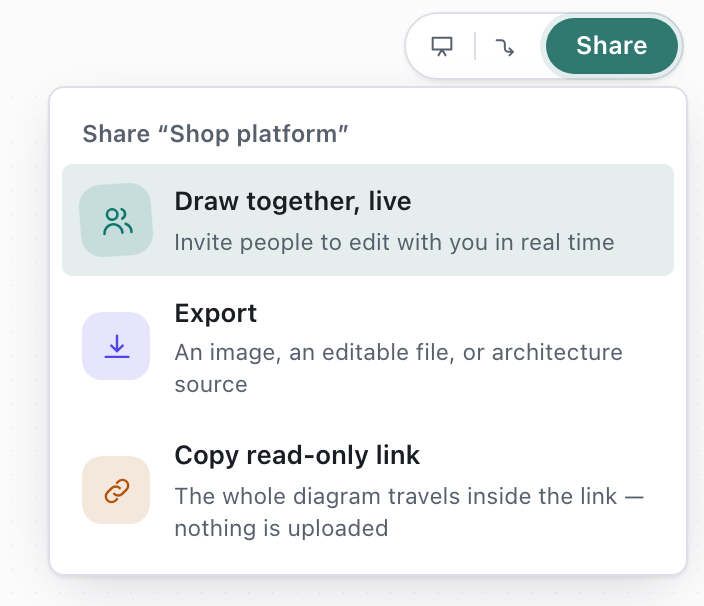
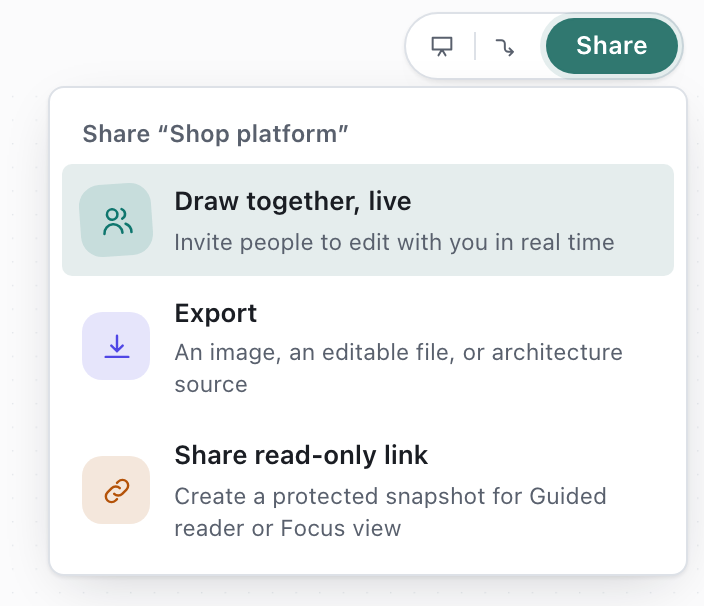
Integrate protected sharing with current toolbar and live sessions

Changed region(s): [[0.25, 0.802, 0.9062, 0.8317], [0.25, 0.7129, 0.625, 0.7723], [0.25, 0.8614, 0.5625, 0.8911]]

diff --git a/src/ui/Editor/toolbar/ShareButton.tsx b/src/ui/Editor/toolbar/ShareButton.tsx
@@ -1,9 +1,7 @@
 import { useCallback, useRef, useState } from 'react';
 import { useShallow } from 'zustand/react/shallow';
-import { hostKind } from '../../../host/hostInfo';
-import { copyShareLink } from '../../../share';
 import { useCollabStore } from '../../../store/collabStore';
-import { fileWithLiveViewport, useEditorStore } from '../../../store/editorStore';
+import { useEditorStore } from '../../../store/editorStore';
 import { useUiStore } from '../../../store/uiStore';
 import { Button } from '../../common/Button';
 import { Tooltip } from '../../common/Tooltip';
@@ -56,18 +54,13 @@ export function ShareButton({ onExport }: { onExport: () => void }) {
       detail: 'An image, an editable file, or architecture source',
       onSelect: choose(onExport),
     },
-    // The web app only: the desktop app's address is its own window, not a page anyone else can open.
-    ...(hostKind()
-      ? []
-      : [
-          {
-            id: 'link',
-            icon: 'link' as const,
-            label: 'Copy read-only link',
-            detail: 'The whole diagram travels inside the link — nothing is uploaded',
-            onSelect: choose(() => void copyShareLink(fileWithLiveViewport(useEditorStore.getState()), useUiStore.getState().notify)),
-          },
-        ]),
+    {
+      id: 'link',
+      icon: 'link' as const,
+      label: 'Share read-only link',
+      detail: 'Create a protected snapshot for Guided reader or Focus view',
+      onSelect: choose(() => useUiStore.getState().requestShareFromHere()),
+    },
   ];
 
   return (

diff --git a/e2e/share-link.spec.ts b/e2e/share-link.spec.ts
@@ -58,7 +58,8 @@ test('a diagram without Flows opens in Focus view with the actual fixed shapes',
   await create(page, 'Data Store', { x: 600, y: 300 });
   await expect(page.locator('.dc-node')).toHaveCount(2);
   const originalShape = await page.locator('.dc-node[data-type="database"] .dc-node-surface').innerHTML();
-  await runCommand(page, 'Copy share link');
+  await page.getByRole('button', { name: 'Share', exact: true }).click();
+  await page.getByRole('menuitem', { name: /^Share read-only link/ }).click();
   const dialog = page.getByRole('dialog', { name: 'Export & share' });
   await expect(dialog.getByRole('checkbox', { name: /Require a passphrase/ })).toBeChecked();
   await dialog.getByRole('checkbox', { name: /Require a passphrase/ }).uncheck();

diff --git a/e2e/desktop/desktop.spec.ts b/e2e/desktop/desktop.spec.ts
@@ -85,7 +85,8 @@ test('desktop sharing creates a protected public editor link and supports manual
   await page.goto('/');
   await page.getByRole('button', { name: 'New Quick Draft' }).click();
   await drawService(page);
-  await page.getByRole('button', { name: 'Export', exact: true }).click();
+  await page.getByRole('button', { name: 'Share', exact: true }).click();
+  await page.getByRole('menuitem', { name: /^Share read-only link/ }).click();
   const dialog = page.getByRole('dialog', { name: 'Export & share' });
   await dialog.getByText('Share', { exact: true }).click();
   await expect(dialog.getByRole('checkbox', { name: /Require a passphrase/ })).toBeChecked();

diff --git a/src/ui/Editor/EditorScreen.tsx b/src/ui/Editor/EditorScreen.tsx
@@ -964,7 +964,8 @@ export function useKeyboard({
 
   useEffect(() => {
     const onKeyDown = (event: KeyboardEvent) => {
-      if (isEditableTarget(event.target) || useUiStore.getState().flowTrace || useUiStore.getState().readOnly) return;
+      const readOnly = useUiStore.getState().readOnly;
+      if (isEditableTarget(event.target) || useUiStore.getState().flowTrace || (readOnly && !readOnly.collaborative)) return;
 
       // While the command palette is up it owns the keyboard outright — even if focus has
       // somehow left its input, a stray "t" must never spawn a Text node behind it.

diff --git a/src/canvas/Canvas.tsx b/src/canvas/Canvas.tsx
@@ -622,7 +622,7 @@ const CanvasBody = memo(function CanvasBody({ onCreateAt, onQuickConnectMenu, on
   }, [path, openFitDocumentId, document, openFitWidth, openFitHeight, setViewport]);
 
   const tracing = useUiStore((state) => state.flowTrace !== null);
-  const sharedReadOnly = useUiStore((state) => state.readOnly !== null);
+  const sharedReadOnly = useUiStore((state) => state.readOnly !== null && !state.readOnly.collaborative);
   const interactive = mode === 'edit' && !tracing && !sharedReadOnly;
   useContinuation(interactive);
 

diff --git a/docs/guides/saving-and-sharing.md b/docs/guides/saving-and-sharing.md
@@ -71,14 +71,14 @@ See the [Mermaid import reference](../reference/mermaid-import.md).
 
 | Send | How | Recipient gets |
 | --- | --- | --- |
-| Link | **Copy share link** in `⌘K` or **Share → Export → Share** | A protected, view-only snapshot in Guided reader or Focus view |
+| Link | **Share → Share read-only link**, or **Copy share link** in `⌘K` | A protected, view-only snapshot in Guided reader or Focus view |
 | File | **Document → Editable** or **Encrypted** | A diagram they can reopen |
 | Picture | **Image**, or **Copy as image** | A PNG or SVG; editing requires an embedded diagram |
 | Live session | **Share → Draw together, live** | A shared canvas; see [Collaborating live](collaborating.md) |
 
 ### Create a protected link
 
-1. Open **Share → Export → Share**. **Require a passphrase** is on by default.
+1. Choose **Share → Share read-only link**. **Require a passphrase** is on by default.
 2. Choose **Start at**: the diagram overview, current level or a playable Flow.
 3. Enter and confirm a passphrase of at least eight characters. A long, unique phrase is safer.
 4. Choose **Copy protected link**, then send the passphrase separately.
@@ -122,7 +122,7 @@ resolution notes. Browsing never changes the snapshot.
 
 ![Focus view with a pending item and attachment browsing controls.](../media/guides/share-focus-view.png)
 
-Run **Share from here…** or **Copy share link** in `⌘K`, or use **Start at** in **Export & share → Share**.
+Run **Share from here…** or **Copy share link** in `⌘K`, or use **Start at** in **Share → Export → Share**.
 It defaults to the selected playable Flow, then the current level, then the overview.
 A Flow link starts at its introduction; the reader chooses when to advance.
 

diff --git a/docs/reference/roadmap.md b/docs/reference/roadmap.md
@@ -2,7 +2,8 @@
 
 Shipped work is listed in the [changelog](../../CHANGELOG.md): share links, editable PNG and SVG,
 Mermaid import and draw.io export (1.12); flow tracing, the Order processing example, share links
-that open at a level or flow, and Arrange selection (1.13); live collaboration and protected sharing with Guided reader and Focus view (unreleased).
+that open at a level or flow, and Arrange selection (1.13); live collaboration and protected sharing
+with Guided reader and Focus view (unreleased).
 
 ## Planned
 
